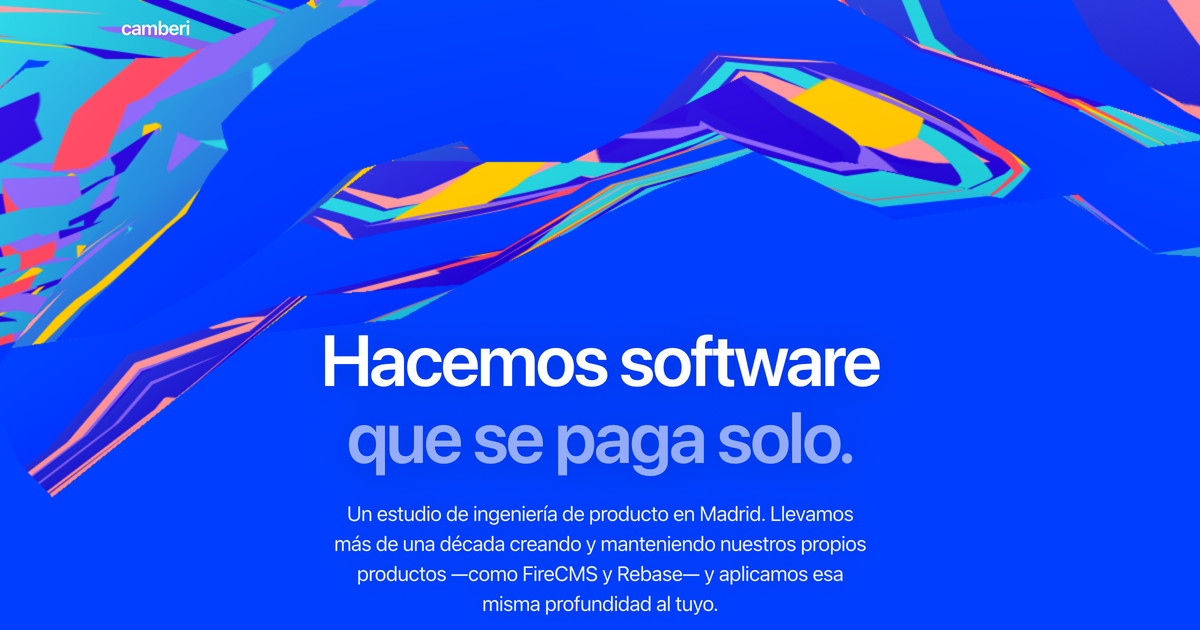
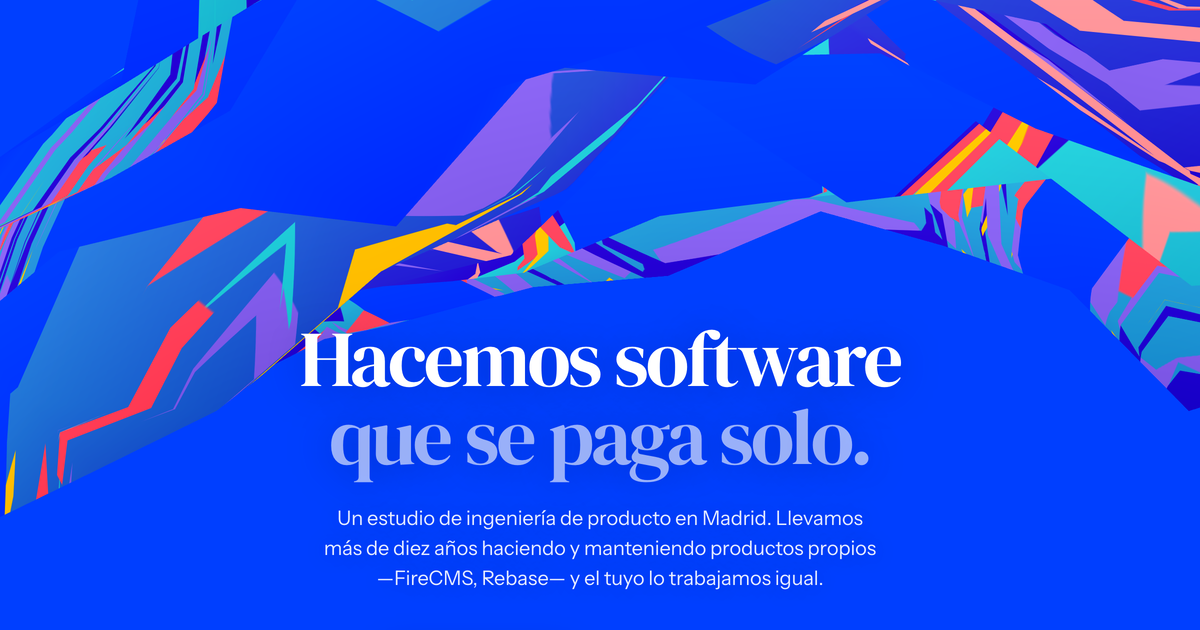
Cut engagements to four, and fix the SEO the site was quietly getting wrong
Seven engagements made that section the longest on the page. Rather than
delete three real offers, they consolidate into four that cover the same
ground: automation and AI merge, regulated work folds into building the
product where it was always a flavour rather than a kind, and FireCMS and
Rebase implementation joins the data platform. The duration spread is
intact, so the chart still runs from a two-week tick to six months.

Then the audit.

Every unknown URL returned HTTP 200 with the homepage. firebase.json
rewrote `**` to /index.html, which suits a client-side router and this
site has none — it is two static pages. /work, /es/nope and every typo
or stale inbound link was a soft 404 that Google would happily index.
Rewrites are gone, 404.html is in, and the emulator confirms / and /es/
still resolve while everything else now returns a real 404.

Neither page carried any structured data. Both now ship a
ProfessionalService entity sharing one @id, with the address, contact,
sameAs profiles and per-locale inLanguage.

Meta descriptions ran 223 and 244 characters against a ~155 limit, so
search results were truncating mid-sentence. Both now fit.

The og images still showed the pre-rebuild design — old typeface, old
layout — so every share since has advertised a site that no longer
exists. Regenerated from the current hero in both languages, and their
URLs are versioned for the same reason the brand marks now are: images
sit behind a seven-day cache at stable paths.
[…]

diff --git a/src/i18n/es.ts b/src/i18n/es.ts
@@ -204,7 +204,7 @@ export const es: Dict = {
   },
 
   engagements: {
-    title: 'Siete formas de empezar. Todas con alcance cerrado.',
+    title: 'Cuatro formas de empezar. Todas con alcance cerrado.',
     intro:
       'Cada proyecto arranca con un alcance cerrado, un plan de hitos y un precio. No con una fase de descubrimiento que factura tres meses.',
     axisLabel: 'Semanas',
@@ -212,46 +212,25 @@ export const es: Dict = {
     unsureCta: 'Cuéntanos qué te falla',
     items: [
       {
-        title: 'Automatizar lo que tu equipo hace a mano',
-        weeks: [3, 8],
+        title: 'Automatización e IA que aguanta en producción',
+        weeks: [3, 10],
         description:
-          'El Excel que alguien vuelve a rellenar cada lunes, el informe que sale de juntar cuatro dashboards, la aprobación que vive en una bandeja de entrada. Buscamos cuáles compensa automatizar y las dejamos funcionando sin que nadie tenga que estar encima.',
-        scope: 'Normalmente 3–8 semanas',
-      },
-      {
-        title: 'IA y agentes que aguantan en producción',
-        weeks: [4, 10],
-        description:
-          'Funciones con LLM, agentes, RAG e integraciones MCP hechas para funcionar de verdad: con evaluación, control de coste y un plan B para el día en que el modelo se equivoque con toda la seguridad del mundo. Los estrenamos siempre en nuestros propios productos.',
-        scope: 'Normalmente 4–10 semanas',
+          'El Excel que alguien vuelve a rellenar cada lunes, el informe que sale de juntar cuatro dashboards, la aprobación que vive en una bandeja de entrada. Buscamos cuáles compensa automatizar y las dejamos funcionando sin que nadie tenga que estar encima. También funciones con LLM y agentes, con evaluación, control de coste y un plan B para el día en que el modelo se equivoque con toda la seguridad del mundo.',
+        scope: 'Normalmente 3–10 semanas',
       },
       {
         title: 'Hacer el producto',
         weeks: [13, 26],
         description:
-          'De cero a producción, o la reescritura que por fin escala. Diseño, frontend, backend e infraestructura en un solo equipo, para que nada se caiga entre proveedores.',
+          'De cero a producción, o la reescritura que por fin escala. Diseño, frontend, backend e infraestructura en un solo equipo, para que nada se caiga entre proveedores. También del tipo regulado, con datos médicos y una arquitectura que tiene que aguantar una auditoría: llevamos haciéndolo en la sanidad alemana desde 2019.',
         scope: 'Normalmente 3–6 meses',
       },
       {
-        title: 'Ingeniería regulada y health tech',
-        weeks: [9, 17],
+        title: 'Plataforma de datos, Postgres y herramientas internas',
+        weeks: [1, 8],
         description:
-          'Productos con datos médicos, mercado europeo y una arquitectura que tiene que aguantar una auditoría. Llevamos haciendo exactamente esto en la sanidad alemana desde 2019.',
-        scope: 'Normalmente 2–4 meses',
-      },
-      {
-        title: 'Plataforma de datos y Postgres',
-        weeks: [3, 8],
-        description:
-          'Diseño de esquemas, migraciones dolorosas, row-level security, herramientas de administración. Y salir de un backend gestionado que se te ha quedado pequeño sin pasar un fin de semana caído.',
-        scope: 'Normalmente 3–8 semanas',
-      },
-      {
-        title: 'Implantación de FireCMS y Rebase',
-        weeks: [1, 4],
-        description:
-          'Colecciones, componentes e integraciones a medida, hechas por quienes escribieron el framework, más soporte enterprise continuado.',
-        scope: 'Normalmente 1–4 semanas',
+          'Diseño de esquemas, migraciones dolorosas, row-level security y salir de un backend gestionado que se te ha quedado pequeño sin pasar un fin de semana caído. Y la implantación de FireCMS y Rebase, hecha por quienes escribieron los frameworks.',
+        scope: 'Normalmente 1–8 semanas',
       },
       {
         title: 'Revisión de arquitectura',

diff --git a/src/i18n/en.ts b/src/i18n/en.ts
@@ -206,7 +206,7 @@ export const en = {
   },
 
   engagements: {
-    title: 'Seven ways in. All of them scoped.',
+    title: 'Four ways in. All of them scoped.',
     intro:
       'Every engagement starts with a fixed scope, a milestone plan and a price — not a discovery phase that bills for three months.',
     axisLabel: 'Weeks',
@@ -214,46 +214,25 @@ export const en = {
     unsureCta: 'Tell us what’s stuck',
     items: [
       {
-        title: 'Automate the work your team does by hand',
-        weeks: [3, 8],
+        title: 'Automation and AI that survives production',
+        weeks: [3, 10],
         description:
-          'The spreadsheet that gets re-keyed every Monday, the report somebody assembles from four dashboards, the approval that lives in an inbox. We find the ones worth automating, then build them so they keep running without a babysitter.',
-        scope: 'Typically 3–8 weeks',
-      },
-      {
-        title: 'AI features and agents that survive production',
-        weeks: [4, 10],
-        description:
-          'LLM features, agents, retrieval and MCP integrations built to actually run — with evaluation, cost control, and a defined fallback for the day the model is confidently wrong. We ship these in our own products first.',
-        scope: 'Typically 4–10 weeks',
+          'The spreadsheet that gets re-keyed every Monday, the report somebody assembles from four dashboards, the approval that lives in an inbox. We find the ones worth automating and build them so they keep running without a babysitter — LLM features and agents included, with evaluation, cost control and a defined fallback for the day the model is confidently wrong.',
+        scope: 'Typically 3–10 weeks',
       },
       {
         title: 'Build the product',
         weeks: [13, 26],
         description:
-          'Zero to production, or the rewrite that finally scales. Design, frontend, backend and infrastructure owned by one team, so nothing falls between vendors.',
+          'Zero to production, or the rewrite that finally scales. Design, frontend, backend and infrastructure owned by one team, so nothing falls between vendors — including the regulated kind, where the data is medical and the architecture has to survive scrutiny. We have been doing exactly that in German healthcare since 2019.',
         scope: 'Typically 3–6 months',
       },
       {
-        title: 'Regulated and health-tech engineering',
-        weeks: [9, 17],
+        title: 'Data platform, Postgres and admin tooling',
+        weeks: [1, 8],
         description:
-          'Products where the data is medical, the market is European and the architecture has to survive scrutiny. We have been doing exactly this, in German healthcare, since 2019.',
-        scope: 'Typically 2–4 months',
-      },
-      {
-        title: 'Data platform and Postgres',
-        weeks: [3, 8],
-        description:
-          'Schema design, painful migrations, row-level security, admin tooling — and getting off a managed backend you have outgrown without a weekend of downtime.',
-        scope: 'Typically 3–8 weeks',
-      },
-      {
-        title: 'FireCMS and Rebase implementation',
-        weeks: [1, 4],
-        description:
-          'Custom collections, components and integrations from the people who wrote the framework, plus ongoing enterprise support.',
-        scope: 'Typically 1–4 weeks',
+          'Schema design, painful migrations, row-level security, and getting off a managed backend you have outgrown without a weekend of downtime. Plus FireCMS and Rebase implementation from the people who wrote the frameworks.',
+        scope: 'Typically 1–8 weeks',
       },
       {
         title: 'Architecture review',

diff --git a/public/404.html b/public/404.html
@@ -1,0 +1,94 @@
+<!doctype html>
+<html lang="en">
+  <head>
+    <meta charset="UTF-8" />
+    <meta name="viewport" content="width=device-width, initial-scale=1.0" />
+    <title>Page not found — Camberi</title>
+    <!-- A 404 must never be indexed, and must never be mistaken for content. -->
+    <meta name="robots" content="noindex, follow" />
+    <link rel="icon" type="image/svg+xml" href="/favicon.svg?v=2" />
+    <link rel="icon" type="image/x-icon" href="/favicon.ico?v=2" sizes="48x48" />
+    <style>
+      @font-face {
+        font-family: 'DM Serif Display';
+        font-style: normal;
+        font-weight: 400;
+        font-display: swap;
+        src: url('/fonts/dm-serif-display-latin-400-normal.woff2') format('woff2');
+      }
+      @font-face {
+        font-family: 'Instrument Sans Variable';
+        font-style: normal;
+        font-weight: 400 700;
+        font-display: swap;
+        src: url('/fonts/instrument-sans-latin-wght-normal.woff2') format('woff2-variations');
+      }
+      * { box-sizing: border-box; }
+      body {
+        margin: 0;
+        min-height: 100vh;
+        display: flex;
+        align-items: center;
+        background: #ffffff;
+        color: #14141a;
+        font-family: 'Instrument Sans Variable', -apple-system, BlinkMacSystemFont, sans-serif;
+        font-size: 1.0625rem;
+        line-height: 1.55;
+        letter-spacing: -0.005em;
+        -webkit-font-smoothing: antialiased;
+      }
+      main { max-width: 72rem; margin: 0 auto; padding: 0 1.5rem; width: 100%; }
+      .code {
+        font-family: ui-monospace, SFMono-Regular, Menlo, monospace;
+        font-size: 0.7rem;
+        font-weight: 500;
+        letter-spacing: 0.14em;
+        text-transform: uppercase;
+        color: #6d6d7a;
+      }
+      hr { border: 0; border-top: 1px solid rgba(0, 0, 0, 0.12); margin: 0 0 2.5rem; }
+      h1 {
+        font-family: 'DM Serif Display', Georgia, serif;
+        font-weight: 400;
+        font-size: clamp(2.6rem, 6vw, 4.4rem);
+        line-height: 0.98;
+        letter-spacing: -0.03em;
+        margin: 0.75rem 0 0;
+        max-width: 16ch;
+      }
+      p { color: #4c4c58; max-width: 46ch; margin: 1.25rem 0 0; }
+      .links { display: flex; flex-wrap: wrap; gap: 0.75rem; margin-top: 2.25rem; }
+      a.btn {
+        display: inline-flex;
+        align-items: center;
+        gap: 0.5rem;
+        border-radius: 999px;
+        padding: 0.8rem 1.6rem;
+        font-weight: 500;
+        text-decoration: none;
+        border: 1px solid transparent;
+        transition: background-color 0.3s cubic-bezier(0.16, 1, 0.3, 1);
+      }
+      a.primary { background: #14141a; color: #fff; }
+      a.primary:hover { background: #000; }
+      a.secondary { border-color: rgba(0, 0, 0, 0.12); color: #14141a; }
+      a.secondary:hover { border-color: #14141a; }
+      a:focus-visible { outline: 2px solid #0040ff; outline-offset: 3px; }
+    </style>
+  </head>
+  <body>
+    <main>
+      <hr />
+      <span class="code">Error 404</span>
+      <h1>That page isn’t here.</h1>
+      <p>
+        The link may be out of date, or the address slightly off. Everything we have
+        is on the one page.
+      </p>
+      <div class="links">
+        <a class="btn primary" href="/">Back to camberi.com</a>
+        <a class="btn secondary" href="mailto:hello@camberi.com">hello@camberi.com</a>
+      </div>
+    </main>
+  </body>
+</html>

diff --git a/es/index.html b/es/index.html
@@ -15,7 +15,7 @@
     <meta name="viewport" content="width=device-width, initial-scale=1.0" />
 
     <title>Camberi — el estudio detrás de FireCMS, Rebase y medicalmotion</title>
-    <meta name="description" content="Estudio de ingeniería de producto en Madrid. Hacemos nuestro propio software —FireCMS, Rebase, Neat— y la tecnología de medicalmotion, cubierta por más de 23 aseguradoras de salud europeas. Contrata a quien ha tenido que convivir con el código." />
+    <meta name="description" content="Estudio de ingeniería de producto en Madrid. Creamos y mantenemos nuestro propio software —FireCMS, Rebase, Neat— y la tecnología de medicalmotion." />
 
     <link rel="canonical" href="https://camberi.com/es/" />
     <link rel="alternate" hreflang="en" href="https://camberi.com/" />
@@ -28,17 +28,57 @@
     <meta property="og:url" content="https://camberi.com/es/" />
     <meta property="og:locale" content="es_ES" />
     <meta property="og:locale:alternate" content="en_GB" />
-    <meta property="og:image" content="https://camberi.com/og-es.png" />
+    <meta property="og:image" content="https://camberi.com/og-es.png?v=2" />
     <meta property="og:image:width" content="1200" />
     <meta property="og:image:height" content="630" />
+    <meta property="og:site_name" content="Camberi" />
+    <meta property="og:image:alt" content="Camberi — estudio de ingeniería de producto" />
+    <meta name="twitter:site" content="@firecmsco" />
     <meta name="twitter:card" content="summary_large_image" />
     <meta name="twitter:title" content="Camberi — el estudio detrás de FireCMS, Rebase y medicalmotion" />
     <meta name="twitter:description" content="No lo entregamos y desaparecemos. Un estudio de ingeniería de producto que crea y mantiene su propio software, y el tuyo." />
-    <meta name="twitter:image" content="https://camberi.com/og-es.png" />
+    <meta name="twitter:image" content="https://camberi.com/og-es.png?v=2" />
 
     <!-- No detection script here on purpose: a deliberate /es/ URL always wins,
          and skipping it makes a redirect loop structurally impossible. -->
 
+    <script type="application/ld+json">
+{
+      "@context": "https://schema.org",
+      "@type": "ProfessionalService",
+      "@id": "https://camberi.com/#organization",
+      "name": "Camberi",
+      "url": "https://camberi.com/",
+      "logo": "https://camberi.com/icon-512.png",
+      "image": "https://camberi.com/og-es.png?v=2",
+      "email": "hello@camberi.com",
+      "address": {
+        "@type": "PostalAddress",
+        "addressLocality": "Madrid",
+        "addressCountry": "ES"
+      },
+      "areaServed": {
+        "@type": "Place",
+        "name": "Europe"
+      },
+      "sameAs": [
+        "https://github.com/firecmsco",
+        "https://www.linkedin.com/company/camberi",
+        "https://x.com/firecmsco"
+      ],
+      "knowsAbout": [
+        "Product engineering",
+        "Workflow automation",
+        "PostgreSQL",
+        "React",
+        "TypeScript",
+        "AI integration",
+        "Health technology"
+      ],
+      "inLanguage": "es-ES",
+      "description": "Estudio de ingeniería de producto en Madrid. Creamos y mantenemos nuestro propio software —FireCMS, Rebase, Neat— y la tecnología de medicalmotion."
+    }
+    </script>
   </head>
   <body>
     <div id="root"></div>

diff --git a/index.html b/index.html
@@ -15,7 +15,7 @@
     <meta name="viewport" content="width=device-width, initial-scale=1.0" />
 
     <title>Camberi — the studio behind FireCMS, Rebase and medicalmotion</title>
-    <meta name="description" content="A product engineering studio in Madrid. We build our own software — FireCMS, Rebase, Neat — and the technology behind medicalmotion, reimbursed by 23+ European health insurers. Hire the people who had to live with the code." />
+    <meta name="description" content="A product engineering studio in Madrid. We build and run our own software — FireCMS, Rebase and Neat — and the technology behind medicalmotion." />
 
     <link rel="canonical" href="https://camberi.com/" />
     <link rel="alternate" hreflang="en" href="https://camberi.com/" />
@@ -28,13 +28,16 @@
     <meta property="og:url" content="https://camberi.com/" />
     <meta property="og:locale" content="en_GB" />
     <meta property="og:locale:alternate" content="es_ES" />
-    <meta property="og:image" content="https://camberi.com/og.png" />
+    <meta property="og:image" content="https://camberi.com/og.png?v=2" />
     <meta property="og:image:width" content="1200" />
     <meta property="og:image:height" content="630" />
+    <meta property="og:site_name" content="Camberi" />
+    <meta property="og:image:alt" content="Camberi — product engineering studio" />
+    <meta name="twitter:site" content="@firecmsco" />
     <meta name="twitter:card" content="summary_large_image" />
     <meta name="twitter:title" content="Camberi — the studio behind FireCMS, Rebase and medicalmotion" />
     <meta name="twitter:description" content="We don't hand it over and disappear. A product engineering studio that builds and runs its own software — and yours." />
-    <meta name="twitter:image" content="https://camberi.com/og.png" />
+    <meta name="twitter:image" content="https://camberi.com/og.png?v=2" />
 
     <!--
       Language routing. Each language is a real URL (`/` and `/es/`) so both
@@ -64,6 +67,43 @@
       })();
     </script>
 
+    <script type="application/ld+json">
+{
+      "@context": "https://schema.org",
+      "@type": "ProfessionalService",
+      "@id": "https://camberi.com/#organization",
+      "name": "Camberi",
+      "url": "https://camberi.com/",
+      "logo": "https://camberi.com/icon-512.png",
+      "image": "https://camberi.com/og.png?v=2",
+      "email": "hello@camberi.com",
+      "address": {
+        "@type": "PostalAddress",
+        "addressLocality": "Madrid",
+        "addressCountry": "ES"
+      },
+      "areaServed": {
+        "@type": "Place",
+        "name": "Europe"
+      },
+      "sameAs": [
+        "https://github.com/firecmsco",
+        "https://www.linkedin.com/company/camberi",
+        "https://x.com/firecmsco"
+      ],
+      "knowsAbout": [
+        "Product engineering",
+        "Workflow automation",
+        "PostgreSQL",
+        "React",
+        "TypeScript",
+        "AI integration",
+        "Health technology"
+      ],
+      "inLanguage": "en-GB",
+      "description": "A product engineering studio in Madrid. We build and run our own software — FireCMS, Rebase and Neat — and the technology behind medicalmotion."
+    }
+    </script>
   </head>
   <body>
     <div id="root"></div>
